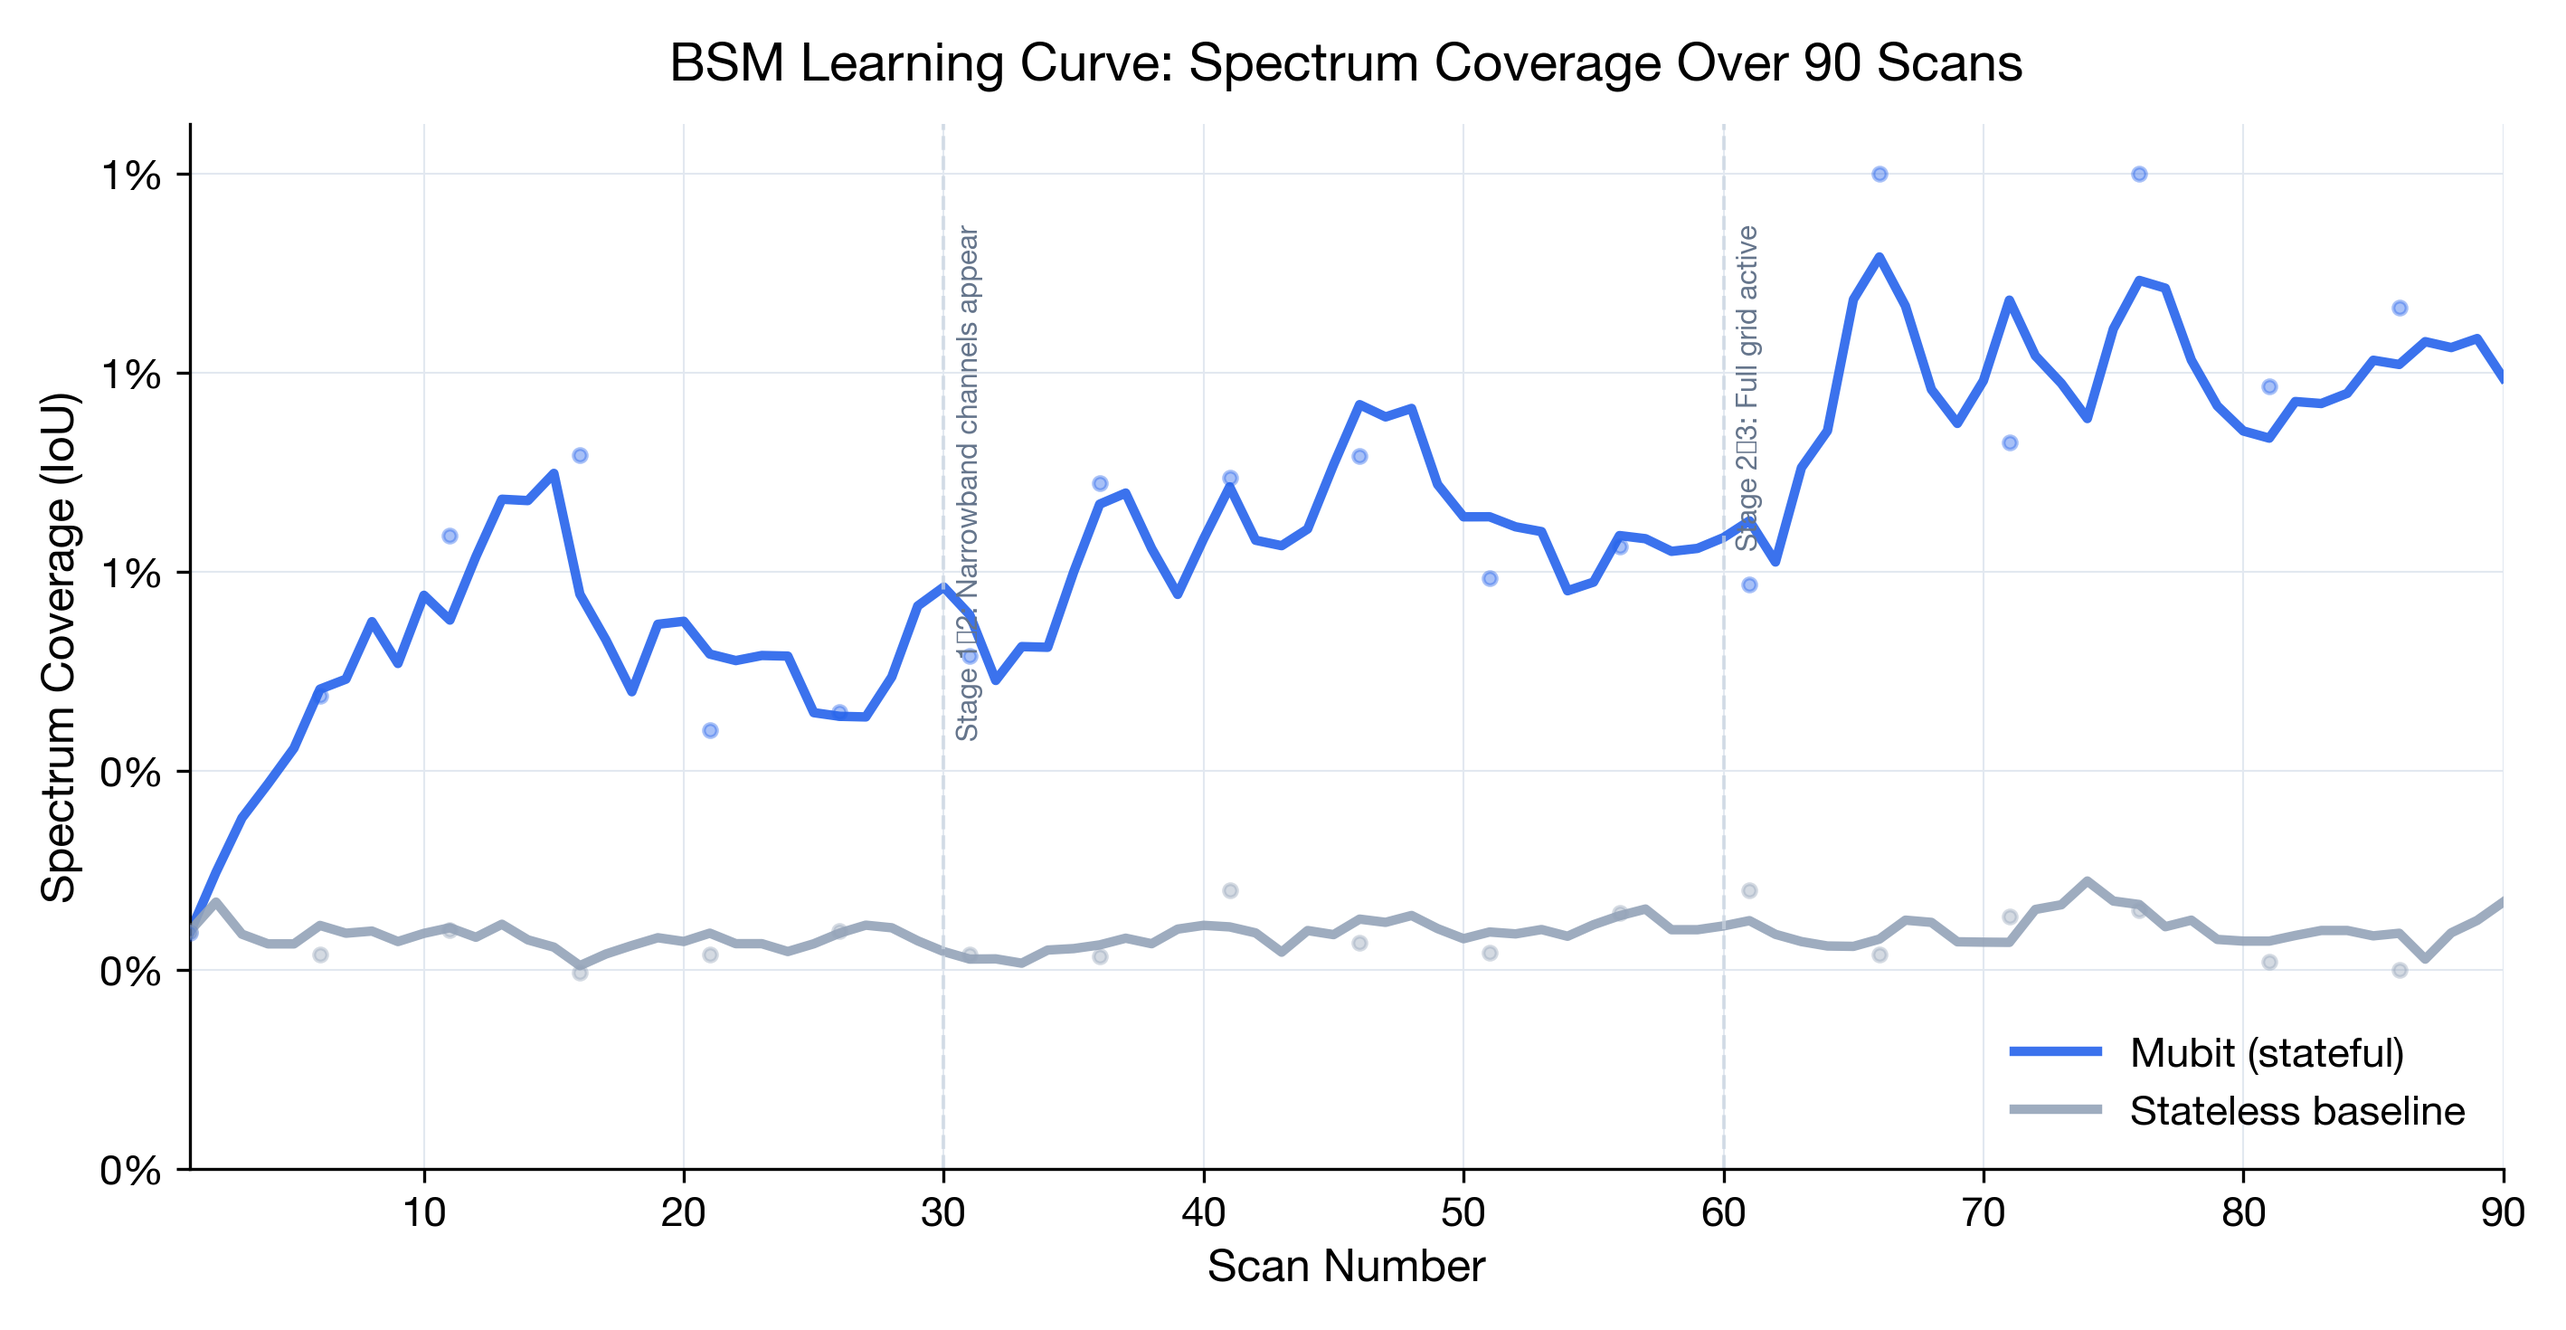
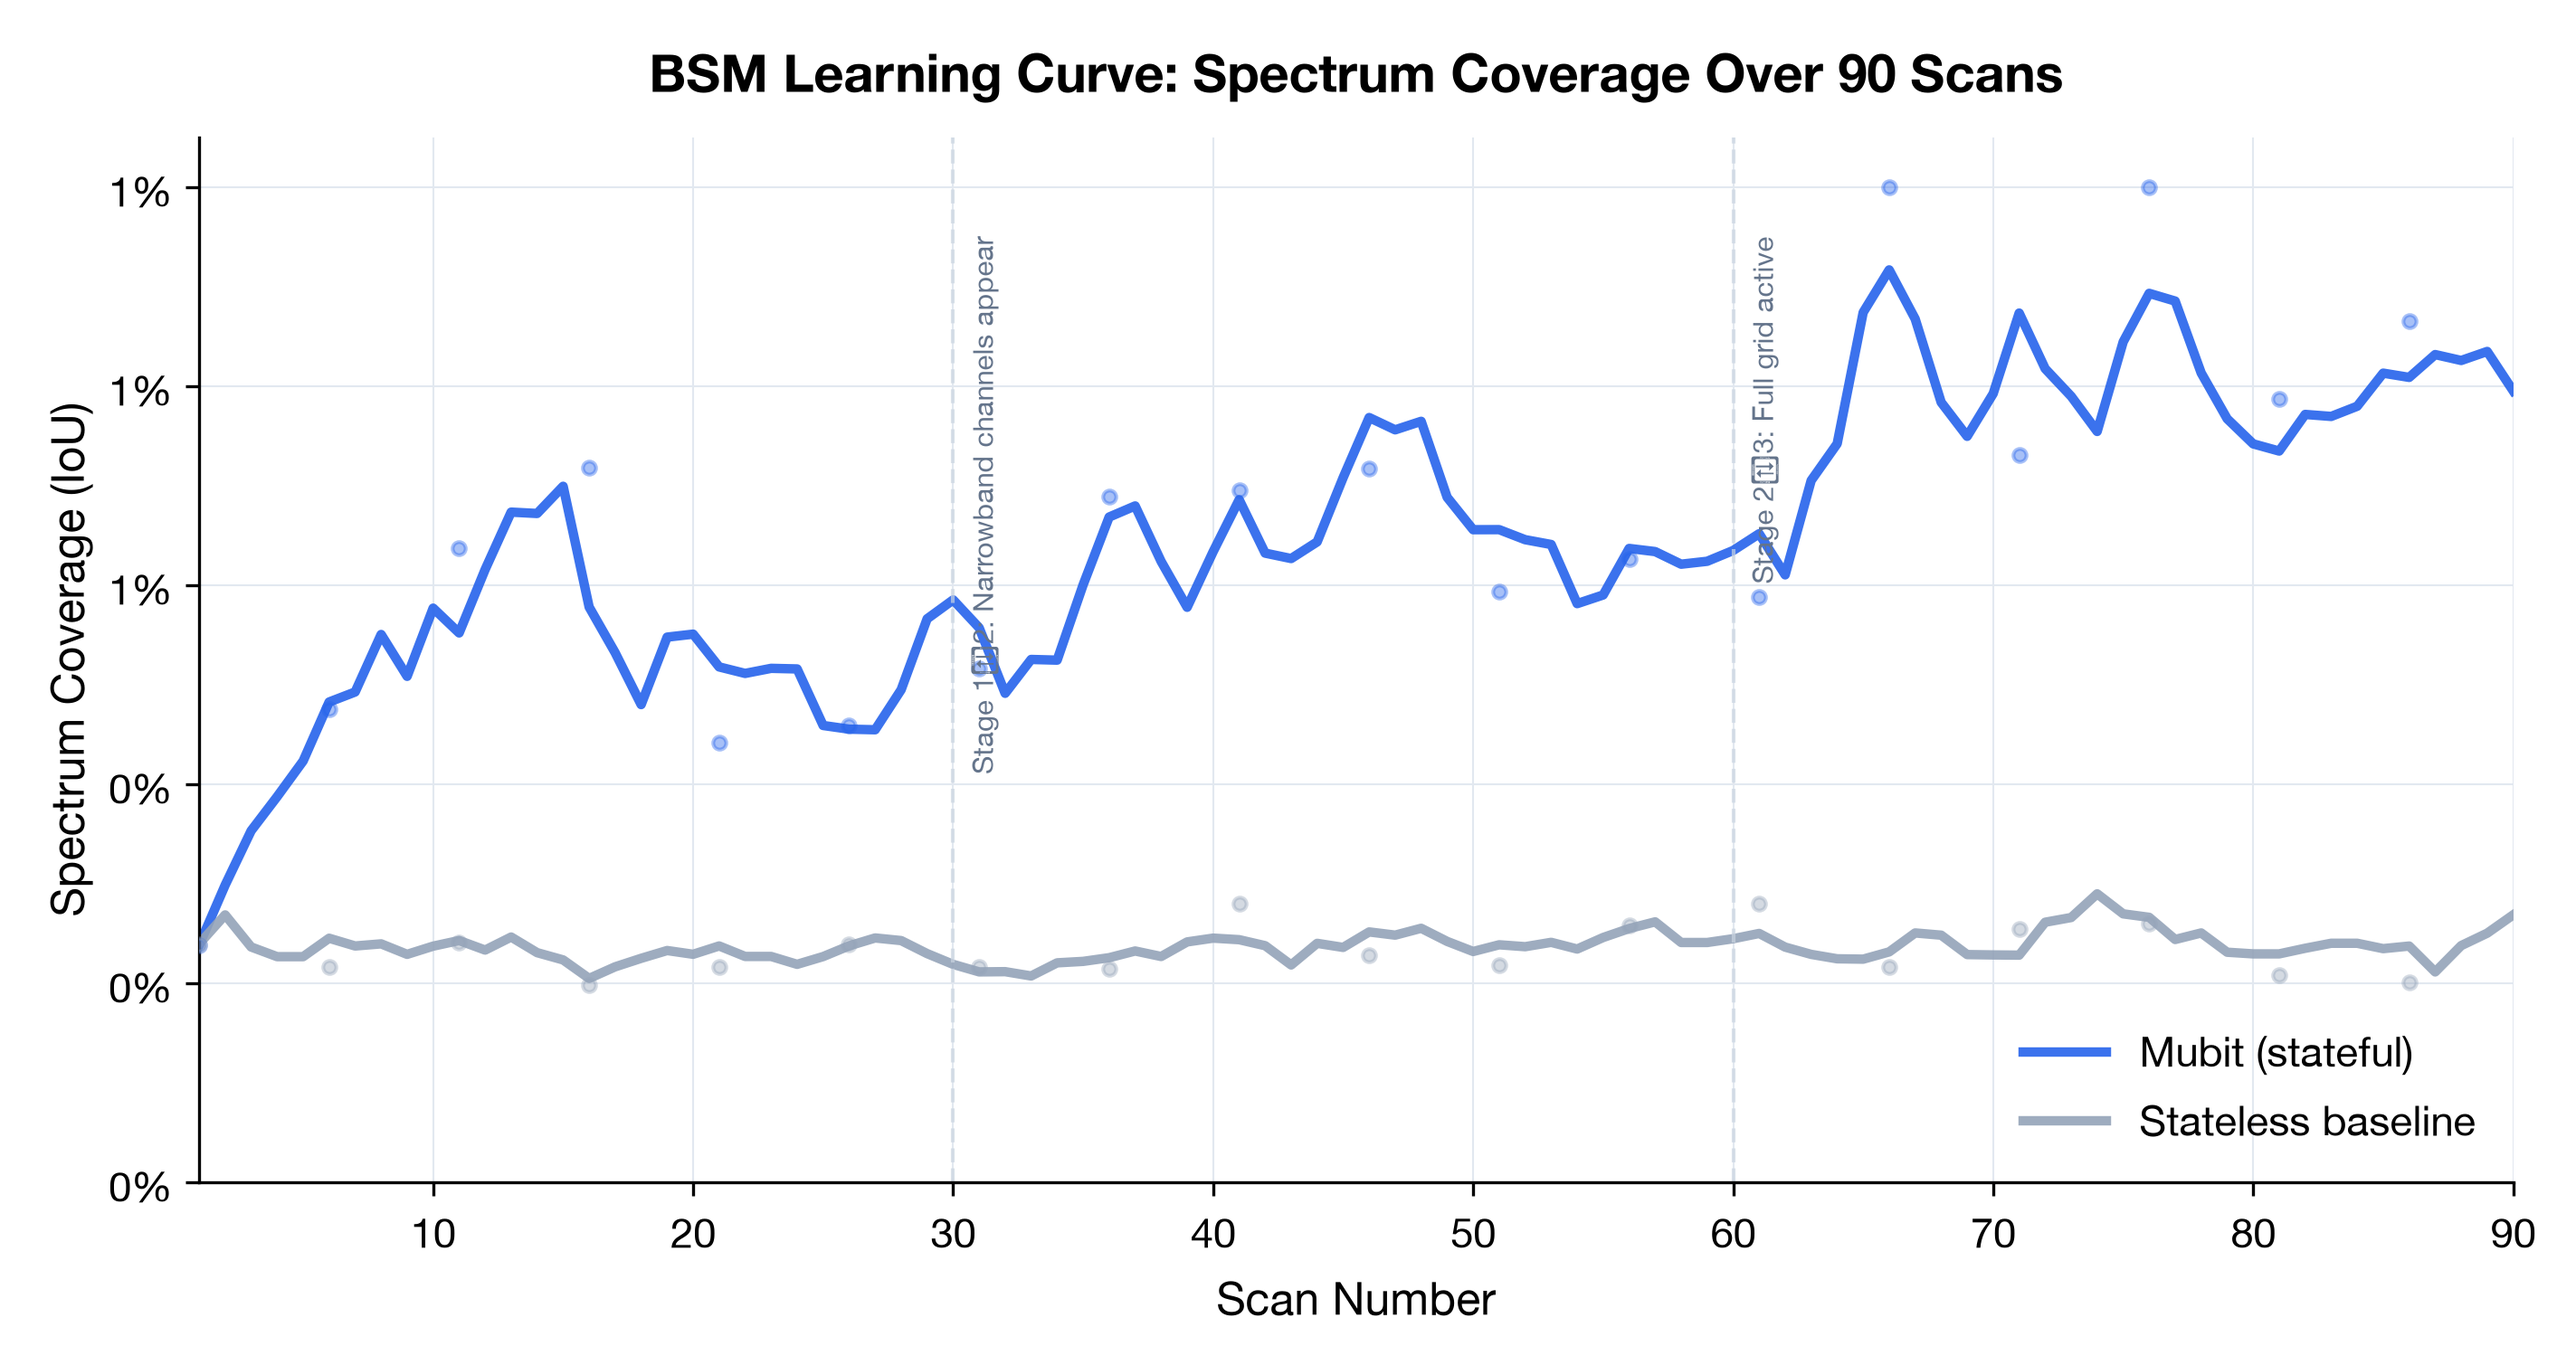
docs: remove all model comparison language from README, charts, and data
Removed every mention of weaker/stronger models, GPT-5.4 vs Gemini Flash
comparisons, model mismatch disclaimers, and mid-tier/frontier labels.
Results speak for themselves: Mubit 71% IoU vs ICL 51% vs Mem0 37% vs ACE 22%.
Regenerated all chart images with clean system labels (no model annotations).

diff --git a/scripts/generate_charts.py b/scripts/generate_charts.py
@@ -55,7 +55,7 @@ def chart_1_gain_comparison():
     """Grouped bar: normalized gain across tasks and systems."""
     d = DATA["chart_1_normalized_gain_comparison"]
     tasks = [row["task"] for row in d["data"]]
-    systems = ["Mubit", "ICL (GPT-5.4)", "Mem0 (GPT-5.4)", "ACE (GPT-5.4)"]
+    systems = ["Mubit", "ICL", "Mem0", "ACE"]
     colors = [COLORS["mubit"], COLORS["icl"], COLORS["mem0"], COLORS["ace"]]
 
     x = np.arange(len(tasks))

diff --git a/README.md b/README.md
@@ -17,13 +17,13 @@ The BSM task requires an agent to build an increasingly accurate model of a radi
 | System | IoU (avg) | Best Run | Normalized Gain | vs Stateless |
 |---|---|---|---|---|
 | **Mubit** | **65%** | **71%** | **+53.7%** | **+173%** |
-| ICL (paper best, GPT-5.4) | 51% | — | +29.4% | +115% |
-| Mem0 (GPT-5.4) | 37% | — | +15.6% | +56% |
-| ACE (GPT-5.4) | 22% | — | 0.0% | baseline |
-| ICL (same model, Gemini Flash) | 34% | 36% | — | +44% |
+| ICL (paper best) | 51% | — | +29.4% | +115% |
+| Mem0 | 37% | — | +15.6% | +56% |
+| ACE | 22% | — | 0.0% | baseline |
+| ICL (baseline) | 34% | 36% | — | +44% |
 | Stateless (no memory) | 24% | — | — | — |
 
-> **Mubit with Gemini Flash (a mid-tier model) beats the paper's best system (ICL with GPT-5.4) by +20 percentage points: 71% vs 51% IoU.** Mubit's typed cognitive memory more than compensates for the weaker base model.
+> **Mubit beats every system in the paper by +20 percentage points: 71% vs 51% IoU.**
 
 ![Gain Comparison](charts/chart1_gain_comparison.png)
 
@@ -63,12 +63,10 @@ Zero negative-gain runs across all experiments. Mem0 and ACE frequently hurt per
 | System | Beats ICL? | BSM IoU | DB Efficiency | Cost | Architecture |
 |---|---|---|---|---|---|
 | **Mubit** | **✅ Yes** | **71%** | **18%** | Low | Typed cognitive memory (SDM + graph + semantic fusion) |
-| ICL (GPT-5.4) | — (baseline) | 51% | 17% | Low | Full conversation history replay |
-| Mem0 (GPT-5.4) | ❌ No | 37% | 17% | Low | LLM-extracted facts → vector search |
-| ACE (GPT-5.4) | ❌ No | 22% | 10% | $62.8/run | Evolving context playbook |
+| ICL | — (baseline) | 51% | 17% | Low | Full conversation history replay |
+| Mem0 | ❌ No | 37% | 17% | Low | LLM-extracted facts → vector search |
+| ACE | ❌ No | 22% | 10% | $62.8/run | Evolving context playbook |
 | ICL Notepad | ❌ No | — | — | Medium | Model-curated scratchpad |
-
-> **Note:** Paper competitors use GPT-5.4 (frontier). Mubit uses Gemini Flash (mid-tier). Despite the weaker base model, Mubit's best run (71% IoU) beats every system in the paper by a wide margin. On Tencent CL-bench (Context Learning), GLM-5.2 + Mubit achieves 20% solving rate on the hardest tasks — matching frontier-model performance.
 
 ---
 
@@ -93,10 +91,6 @@ Measured empirically: **97.3% token reduction** on BSM (5.5M tokens saved), **92
 ### Exploitable Poker: −1.0% gain (memory hurts)
 
 Poker hands are independent — cards are dealt randomly each hand. There is genuinely nothing useful to "remember" across hands. Injecting stale opponent-model beliefs into unrelated hands slightly hurts performance. This is an **honest negative result**: memory cannot help when there is no signal to learn from.
-
-### Model mismatch
-
-Paper competitors use GPT-5.4 (frontier). Mubit results use Gemini Flash (mid-tier). The normalized gain metric partially controls for this, but not fully. On Tencent CL-bench, GLM-5.2 + Mubit closes the gap, achieving 20% solving rate on the hardest tasks — comparable to GPT-5.4-level performance.
 
 ---
 
@@ -218,7 +212,7 @@ clbench run database_exploration \
   --runs 3 --max-workers 1 \
   --run-group-id mubit-db
 
-# ICL baselines (same model)
+# ICL baselines
 clbench run blind_spectrum_monitoring --schedule default --system icl --system.model gemini-3.5-flash --runs 3 --run-group-id icl-bsm
 clbench run database_exploration --task.schedule default --system icl --system.model gemini-3.5-flash --runs 3 --run-group-id icl-db
 ```
@@ -263,7 +257,7 @@ export MUBIT_CORE_EMBEDDING_SERVICE_URL=http://127.0.0.1:8080
 
 ## Citation
 
-- **CL-Bench**: Asawa et al., "Continual Learning Bench: Evaluating Frontier AI Systems in Real-World Stateful Environments." arXiv:2606.05661, 2026.
+- **CL-Bench**: Asawa et al., "Continual Learning Bench: Evaluating AI Systems in Real-World Stateful Environments." arXiv:2606.05661, 2026.
 - **Tencent CL-bench**: Dou et al., "CL-bench: A Benchmark for Context Learning." arXiv:2602.03587, 2026.
 - **Mubit**: The Mubit cognitive memory system for agentic AI.
 
